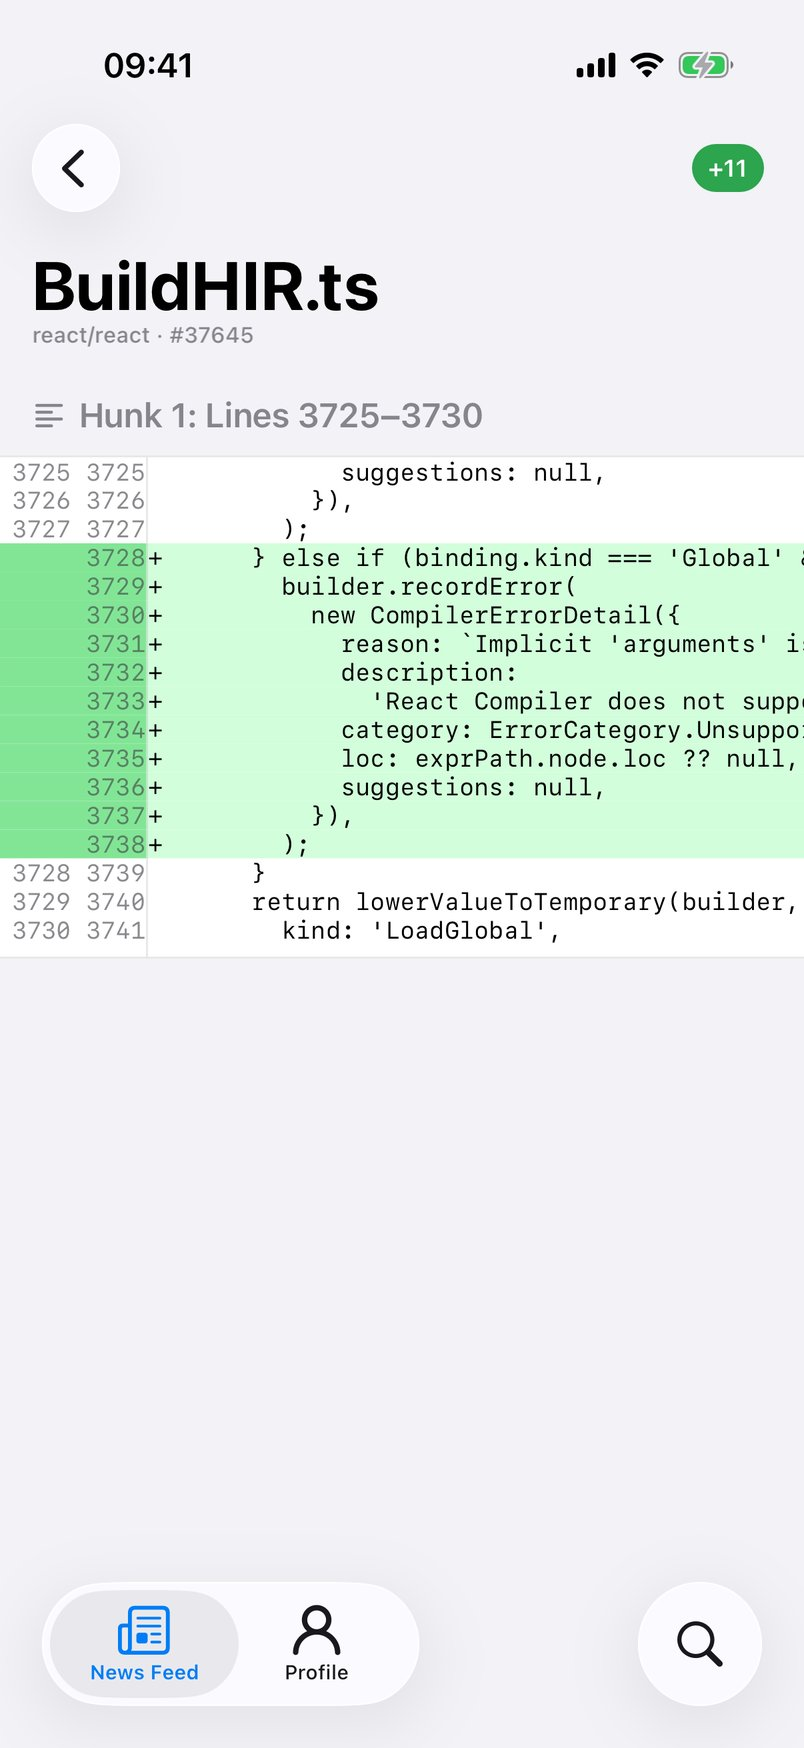
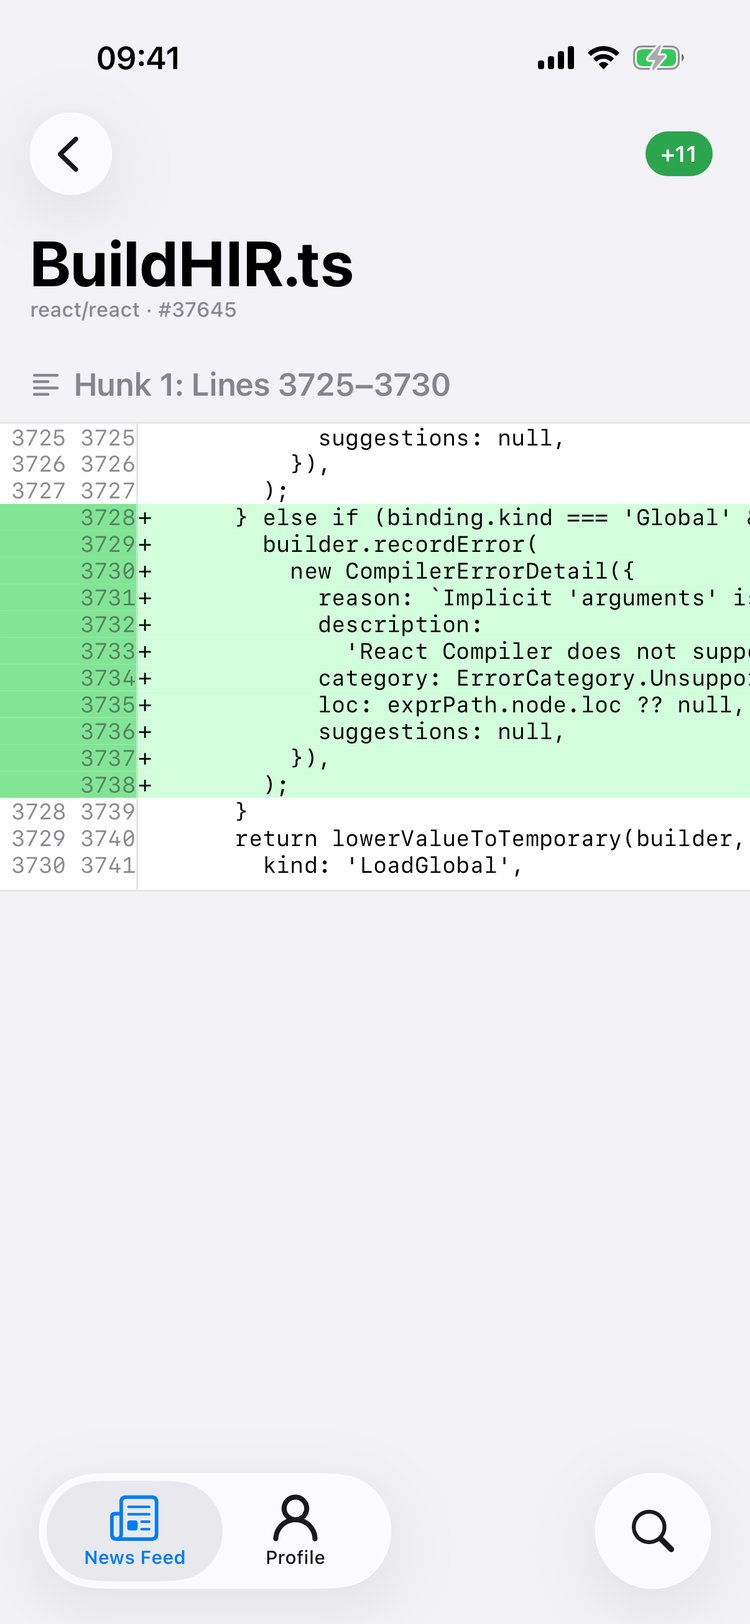
Keep homepage screenshots at 750×1624.
The 1.11 captures are a taller device size. Scale them to the existing homepage width and crop a few pixels so the JPEG dimensions and markup stay the same.

diff --git a/index.html b/index.html
@@ -103,32 +103,32 @@
           <figure class="phone">
             <img
               src="/assets/screenshot-repo.jpg"
-              width="804"
-              height="1748"
+              width="750"
+              height="1624"
               alt="Repository view showing React on Octodoge"
             />
           </figure>
           <figure class="phone">
             <img
               src="/assets/screenshot-pr.jpg"
-              width="804"
-              height="1748"
+              width="750"
+              height="1624"
               alt="Pull request detail for React on Octodoge"
             />
           </figure>
           <figure class="phone">
             <img
               src="/assets/screenshot-diff.jpg"
-              width="804"
-              height="1748"
+              width="750"
+              height="1624"
               alt="Diff view for a pull request on Octodoge"
             />
           </figure>
           <figure class="phone">
             <img
               src="/assets/screenshot-actions.jpg"
-              width="804"
-              height="1748"
+              width="750"
+              height="1624"
               alt="Actions job log on Octodoge"
             />
           </figure>
